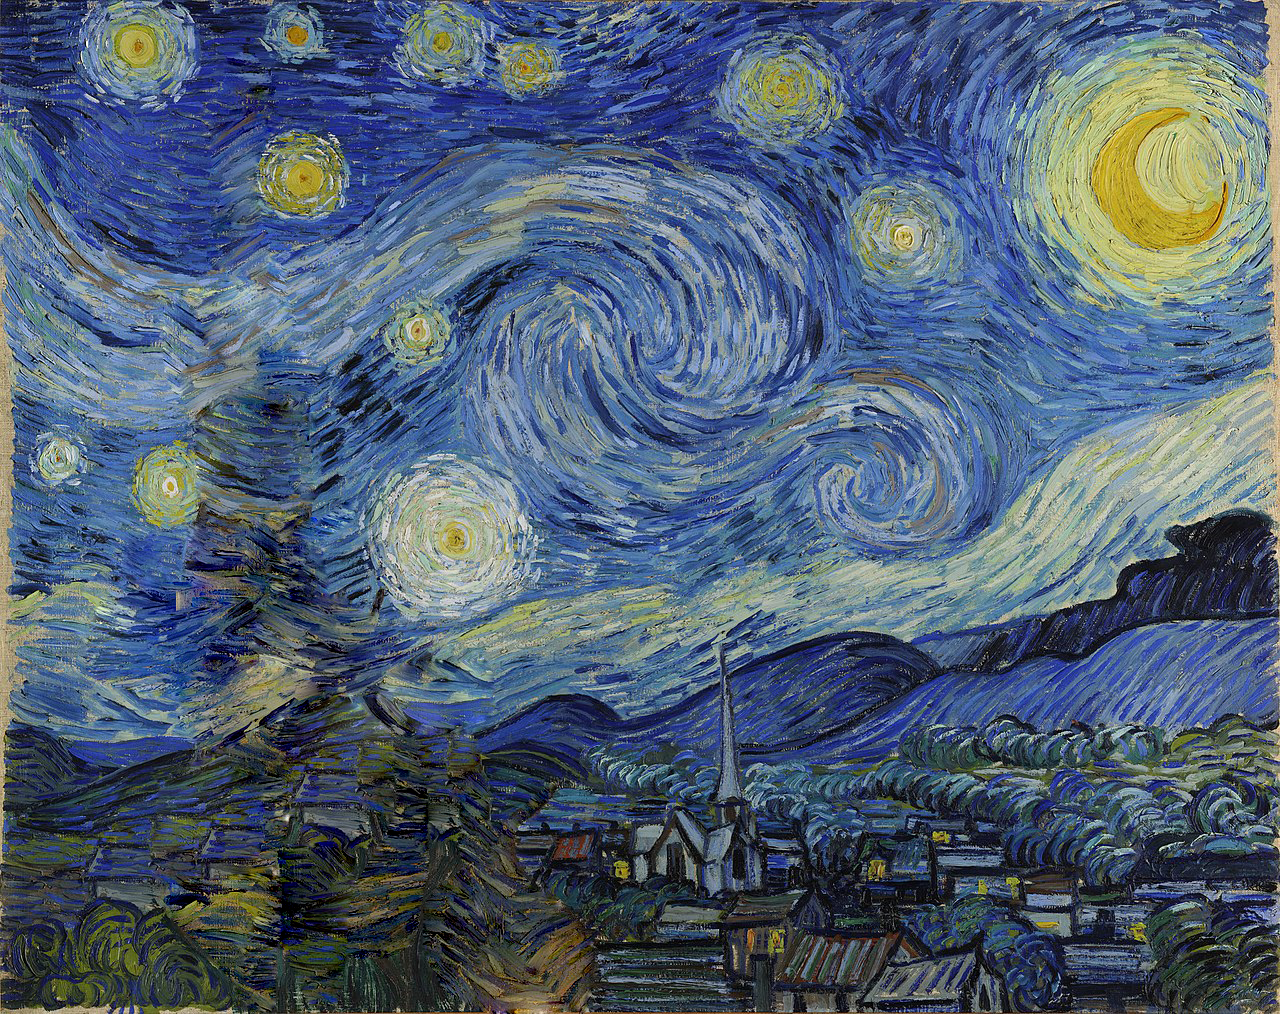
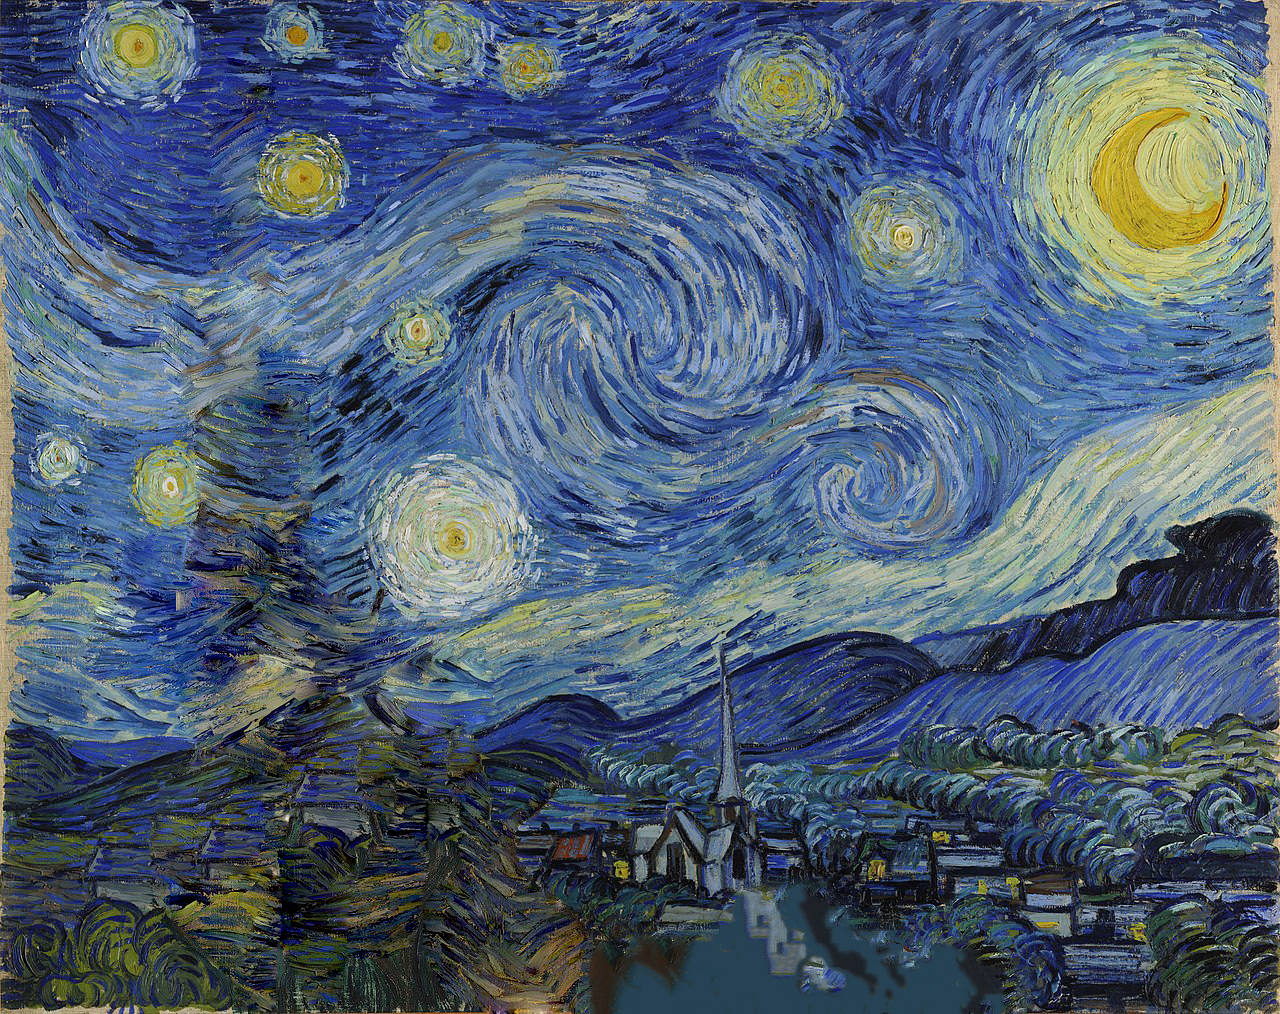
4 layers of thestarrynight

Changed region(s): [[0.4375, 0.856, 0.8125, 1.0]]

diff --git a/src/index.js b/src/index.js
@@ -37,7 +37,7 @@ class Gallery extends React.Component {
                             counter++;
                             return (<img alt="An error has occured"
                                         key={counter.toString()}
-                                        data-depth={counter / 5}
+                                        data-depth={counter / 10}
                                         src={"images/"+dir+"/"+x} />)
                         })}
                     </div>

diff --git a/src/gallery.js b/src/gallery.js
@@ -2,7 +2,7 @@ const gallery = {
     "The Starry Night": {
         "link": "https://en.wikipedia.org/wiki/The_Starry_Night",
         "artist": "Vincent van Gogh",
-        "layers":["base.png","top.png"]
+        "layers":["base.png","1.png","2.png","top.png"]
     }
 }
 export default gallery;
